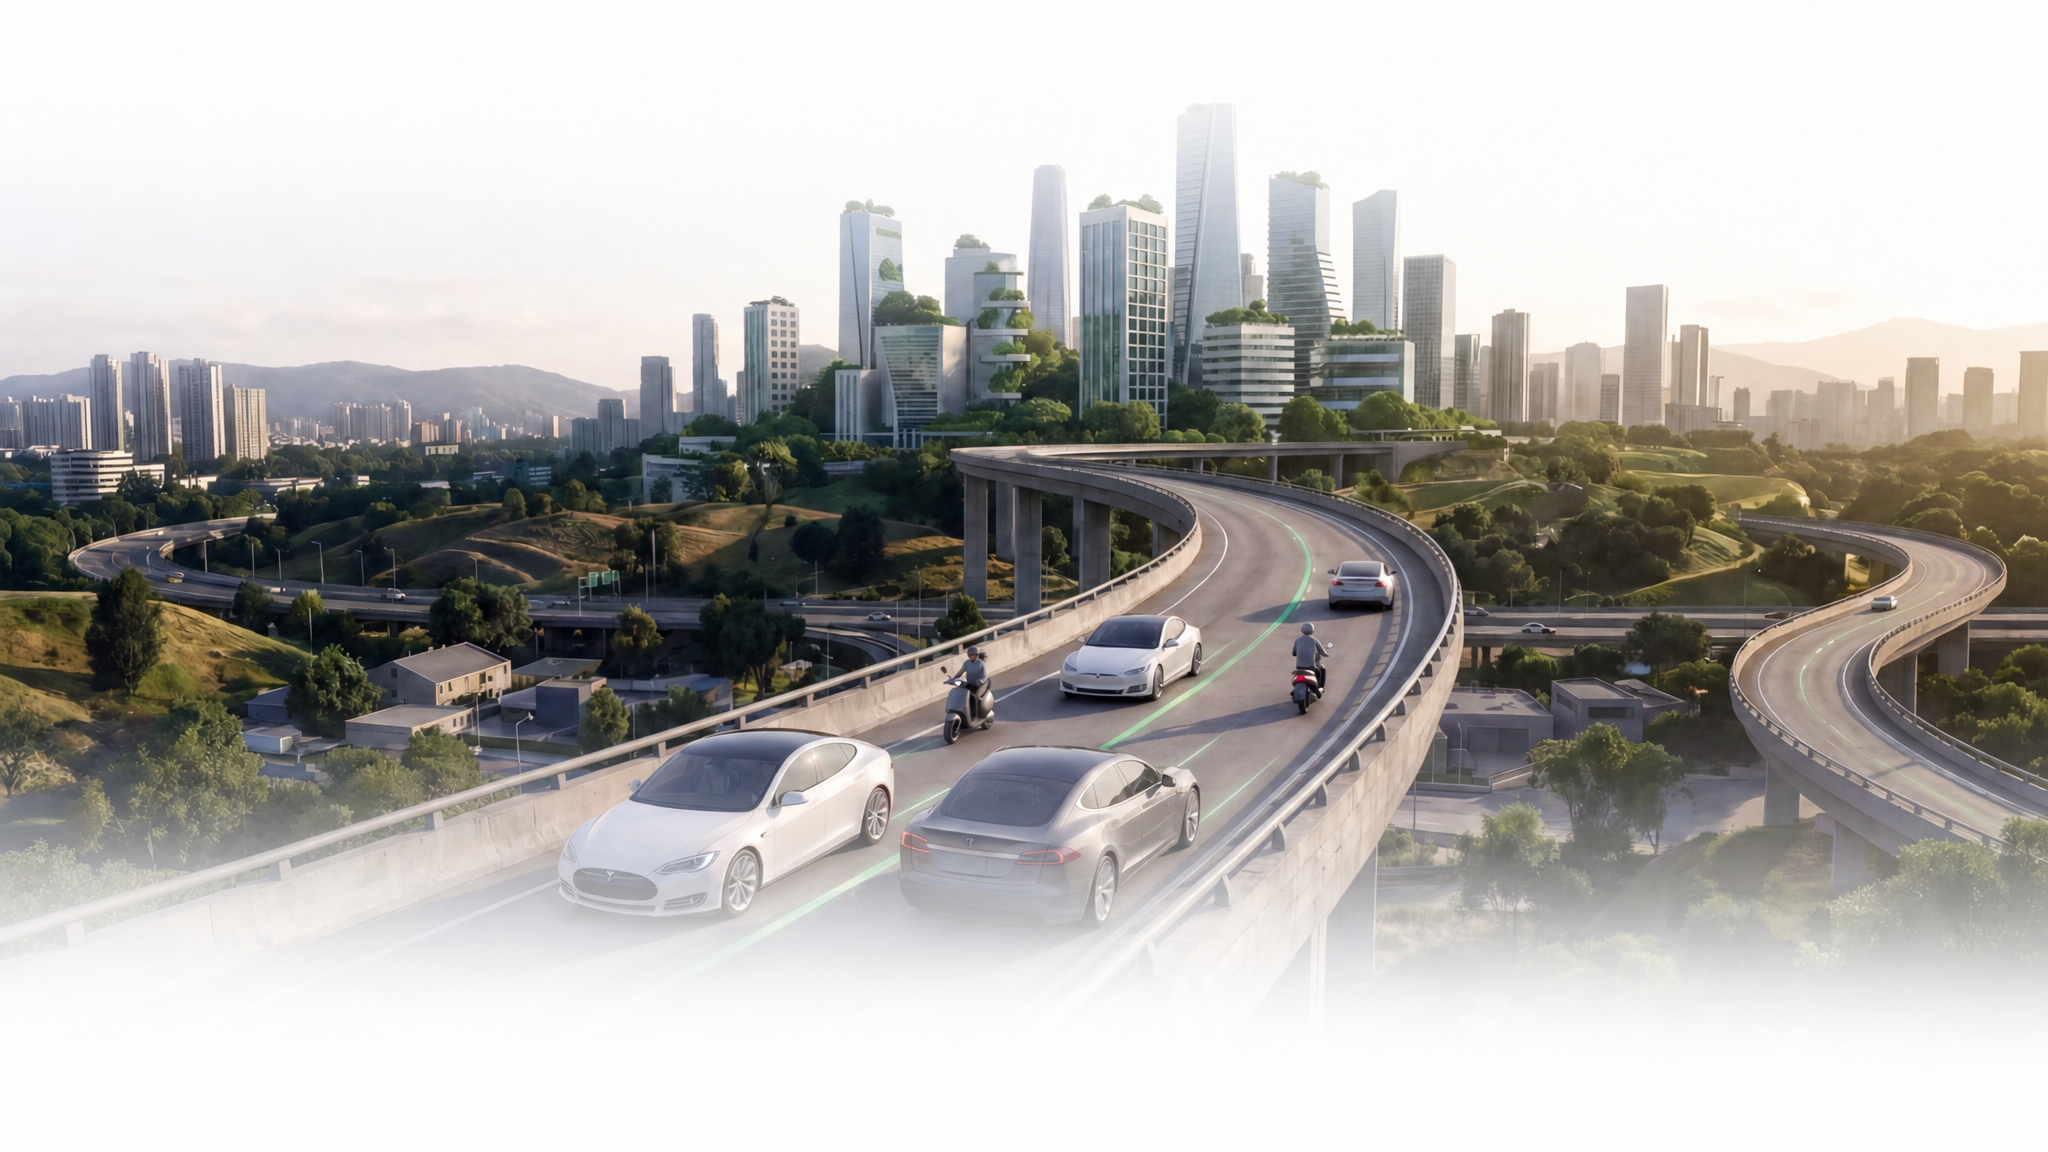
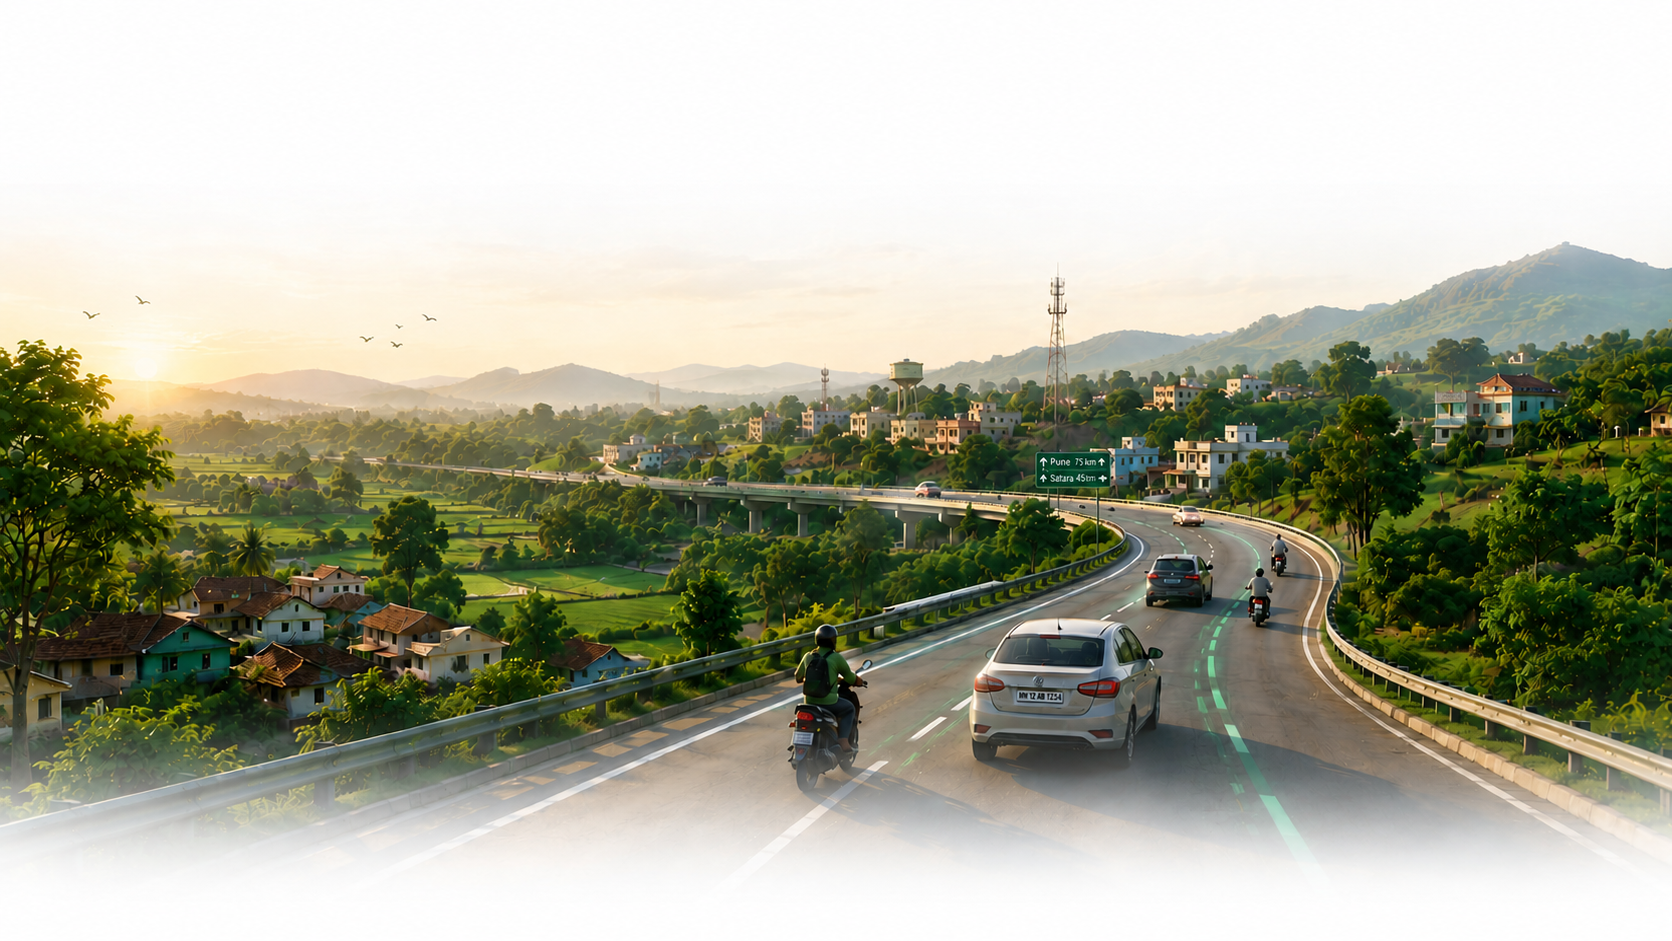
updated images

diff --git a/FRONTEND/chalre/src/styles/auth.css b/FRONTEND/chalre/src/styles/auth.css
@@ -20,17 +20,18 @@
   display: flex;
   flex-direction: column;
   justify-content: space-between;
-  background-color: #0c3d1e;
+  background-color: #fafbf8;
 }
 
 .auth-visual-img {
   position: absolute;
-  top: 0;
-  left: 0;
-  width: 100%;
-  height: 100%;
-  object-fit: cover;
-  object-position: center left;
+  top: 50%;
+  left: 50%;
+  transform: translate(-50%, -50%);
+  width: 90%;
+  height: 90%;
+  object-fit: contain;
+  object-position: center;
   z-index: 1;
 }
 
@@ -41,10 +42,8 @@
   right: 0;
   bottom: 0;
   z-index: 2;
-  background: 
-    linear-gradient(to right, transparent 0%, transparent 80%, rgba(250, 251, 248, 0.5) 93%, #fafbf8 100%),
-    linear-gradient(to bottom, rgba(0, 0, 0, 0.45) 0%, transparent 22%),
-    linear-gradient(to top, rgba(0, 0, 0, 0.4) 0%, transparent 25%);
+  pointer-events: none;
+  background: linear-gradient(to right, transparent 85%, #fafbf8 100%);
 }
 
 .register-visual-panel {
@@ -52,7 +51,7 @@
 }
 
 .register-visual-overlay {
-  background: linear-gradient(to right, transparent 0%, transparent 80%, rgba(250, 251, 248, 0.5) 93%, #fafbf8 100%);
+  background: linear-gradient(to right, transparent 80%, rgba(250, 251, 248, 0.5) 93%, #fafbf8 100%);
 }
 
 .auth-visual-content {
@@ -76,18 +75,16 @@
 .auth-brand-logo-text {
   font-size: clamp(26px, 3vw, 32px);
   font-weight: 800;
-  color: #ffffff;
+  color: #024110;
   letter-spacing: -0.5px;
-  text-shadow: 0 2px 10px rgba(0, 0, 0, 0.4);
 }
 
 .auth-tagline {
   font-size: 13px;
-  font-weight: 500;
-  color: rgba(255, 255, 255, 0.88);
+  font-weight: 600;
+  color: #000000;
   margin: 0;
   letter-spacing: 0.3px;
-  text-shadow: 0 1px 6px rgba(0, 0, 0, 0.5);
 }
 
 /* ================================
@@ -709,12 +706,11 @@
   }
 
   .auth-visual-img {
-    object-position: center 35%;
+    object-position: center;
   }
 
   .auth-visual-overlay {
-    background: 
-      linear-gradient(to bottom, rgba(0, 0, 0, 0.45) 0%, rgba(0, 0, 0, 0.75) 100%);
+    background: linear-gradient(to bottom, transparent 75%, #fafbf8 100%);
   }
 
   .register-visual-overlay {
